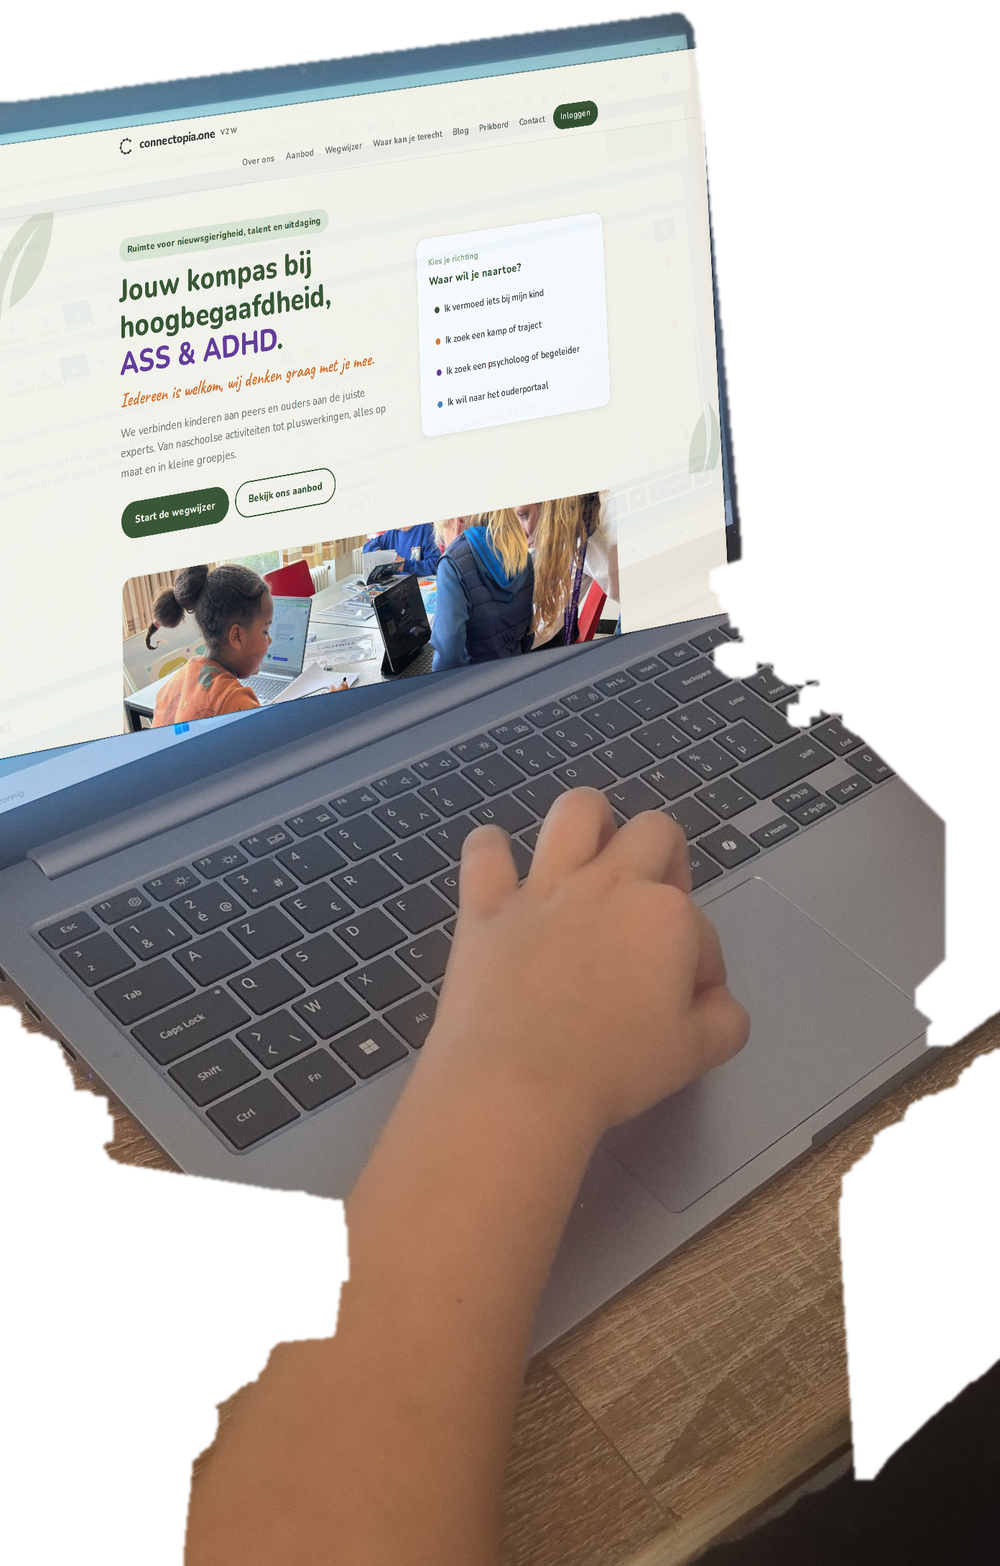
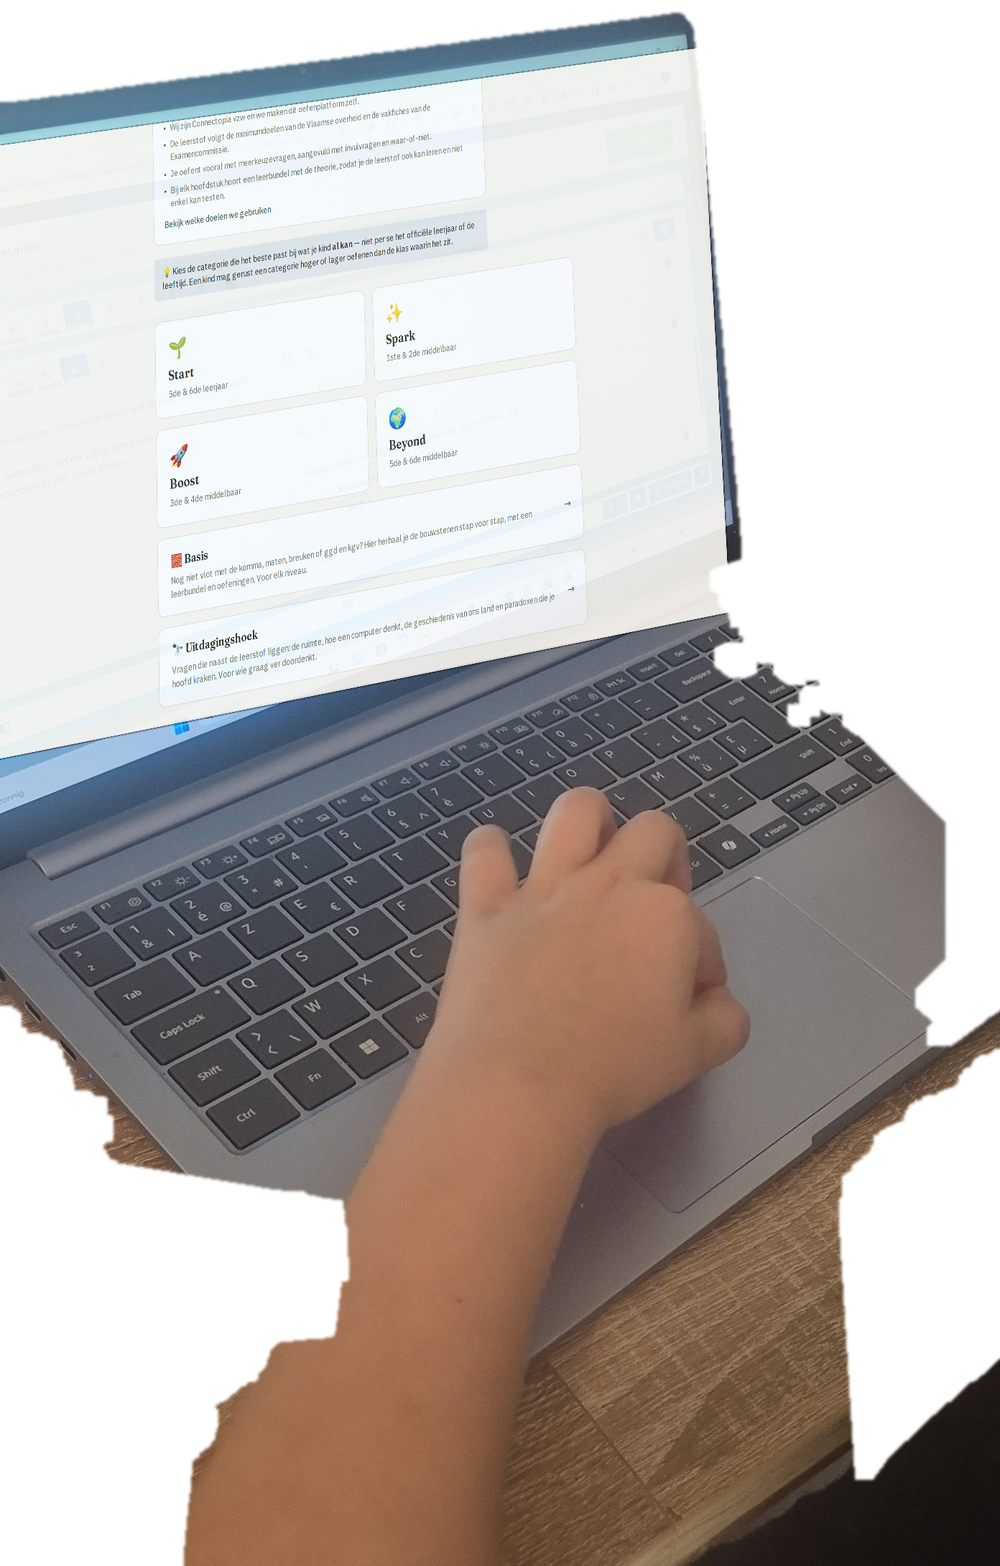
Het oefenplatform op het scherm van de post
Op het beeld stond de gewone website. Kim: de post gaat over het
oefenplatform, dus dat hoort op het scherm te staan. Nu staat de
niveaupagina van het oefenplatform erop, met Start, Spark, Boost en
Beyond zichtbaar. De laptop staat ook wat groter, zodat het scherm
leesbaar blijft op een gsm.

Claude-Session: https://claude.ai/code/session_01RndGgwwLWLzzwjpvUTuHxJ

diff --git a/social/posts/bron/stijl.css b/social/posts/bron/stijl.css
@@ -163,8 +163,8 @@ body.metfiguur .mid { max-width: 596px; }
   buiten het blad, zodat je de rechte onderrand van de uitsnede niet ziet.
   De tekst blijft erboven; render.js waarschuwt als ze eronder schuift.
 */
-.figuurvak { position: absolute; left: 0; right: 0; top: 496px; bottom: 0; overflow: hidden; z-index: 1; }
-.figuur.breed { position: static; display: block; width: 620px; margin-left: 230px; height: auto; }
+.figuurvak { position: absolute; left: 0; right: 0; top: 458px; bottom: 0; overflow: hidden; z-index: 1; }
+.figuur.breed { position: static; display: block; width: 700px; margin-left: 190px; height: auto; }
 body.metfiguurbreed .kop p,
 body.metfiguurbreed .mid { max-width: none; }
 body.verhaal .figuurvak { top: 1130px; }
